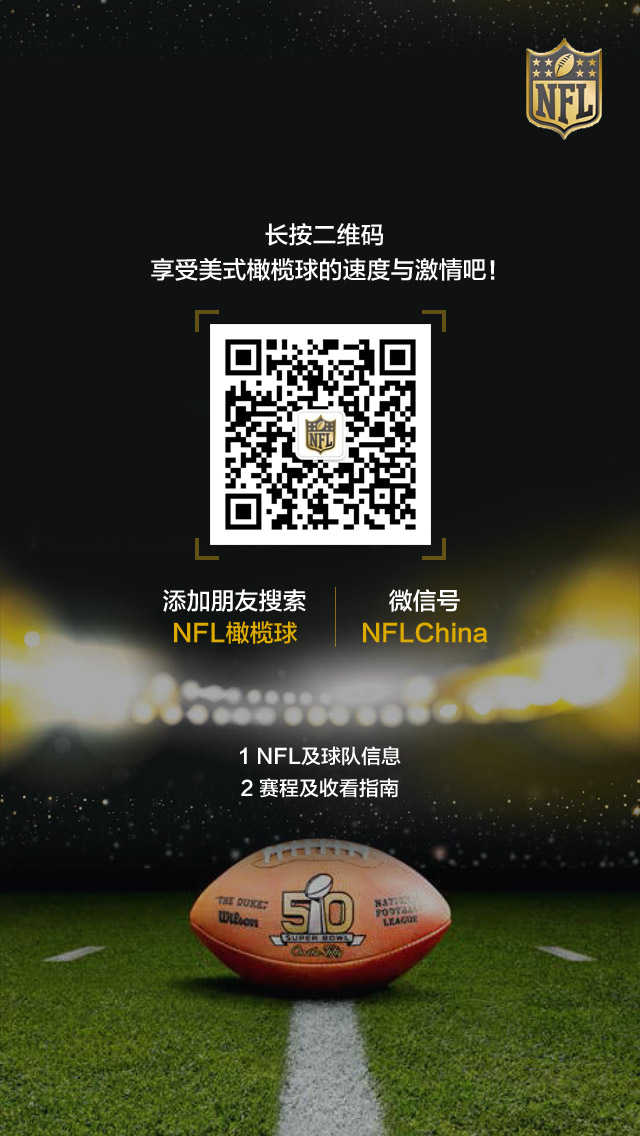
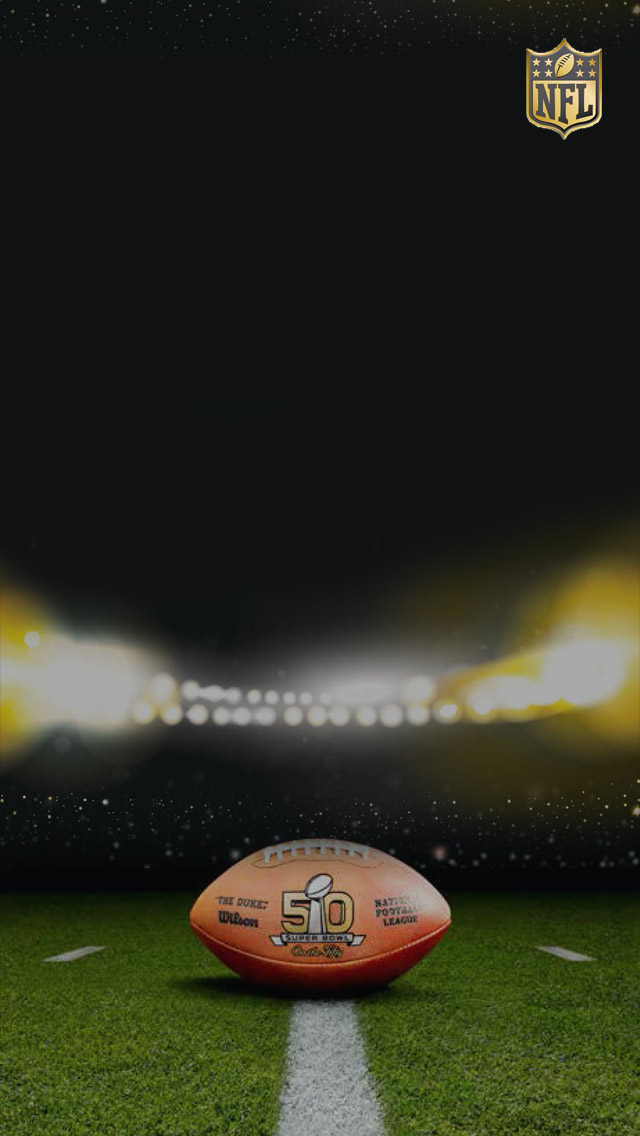
refs nfl

Changed region(s): [[0.2188, 0.1849, 0.7812, 0.5854], [0.375, 0.647, 0.625, 0.7086], [0.5625, 0.5238, 0.7812, 0.5854]]

diff --git a/NFL/nfl.html b/NFL/nfl.html
@@ -7,9 +7,19 @@
     <link rel="stylesheet" href="css/reset.css">
     <link rel="stylesheet" href="css/swiper.min.css">
     <link rel="stylesheet" href="css/main.css">
-
+    
 </head>
 <body>
+    <div style="display: none;">
+        <img src="images/bg1.jpg" alt="">
+        <img src="images/bg2.jpg" alt="">
+        <img src="images/bg3.jpg" alt="">
+        <img src="images/bg4.jpg" alt="">
+        <img src="images/loading2.png" alt="">
+        <img src="images/loading3.png" alt="">
+        <img src="images/loading4.png" alt="">
+        <img src="images/qcode.jpg" alt="">
+    </div>
     <div class="swiper-container">
         <div class="swiper-wrapper">
             <div class="swiper-slide swiper-slide1">
@@ -106,26 +116,76 @@
                     <a href="#"></a>
                     <p>邀请好友一起来玩!</p>
                 </div>
+                <div class="share-pop">
+                    <img src="images/share-tip.png" alt="">
+                </div>
             </div>
             <div class="swiper-slide swiper-slide7">
-                <img src="images/qcode.jpg" alt="">
+                <div class="share-title">
+                    <p>长按二维码</p>
+                    <p>享受美式橄榄球的速度与激情吧！</p>
+                </div>
+                <img src="images/qcode.jpg" alt="" class="q-code">
+                <img src="images/share-method.png" alt="" class="share-method">
+                <div class="weixin-fn">
+                    <p>1 NFL及球队信息</p>
+                    <p>2 赛程及收看指南</p>
+                </div>
+                
             </div>
         </div>
     </div>
     <script src="js/jquery-1.8.3.min.js"></script>
     <script src="js/swiper.jquery.min.js"></script>
     <script>
-        $(function() {
-            var mySwiper = new Swiper('.swiper-container',{
-                initialSlide : 6,
-                onlyExternal : true
-            })
+         (function($){
+            var img_arr_all = [],
+                progress = 0;
 
-            $('.swiper-slide').click(function(){
-                mySwiper.slideNext();
-            })
-        })
-        
+            eachArr($('img'),img_arr_all);
+
+            var iLen = img_arr_all.length;
+            var _num = 0;
+
+            for (var i = 0; i < iLen; i++) {
+                loadImage(img_arr_all[i]);
+            }
+
+            // each array
+            function eachArr(selector,arr){
+                selector.each(function(){
+                    arr.push($(this).attr('src'));
+                });
+            }
+            // loading image
+            function loadImage(url) {
+                var img = new Image();
+                img.src = url;
+                img.onload = function () {
+                    _num++;
+                    // progress by %
+                    progress = parseInt((_num / iLen) * 100);
+                    console.log(progress);
+                    switch(progress){
+                        case 50:
+                            $('.loading').css('background-image','url(images/loading2.png)');
+                        case 75:
+                            $('.loading').css('background-image','url(images/loading3.png)');
+                        case 100:
+                            $('.loading').css('background-image','url(images/loading4.png)');  
+                    }
+                    // $('.progress').empty().text(parseInt((_num / iLen) * 100) + '%');
+                    // if (_num >= iLen) {
+                    //     setTimeout(function() {
+                    //         $('.load-page').hide();
+                    //         // alert('success');
+                    //     },1000);
+                    // }
+                };
+            }
+        }(jQuery));
     </script>
+    <script src="js/index.js"></script>
+    
 </body>
 </html>

diff --git a/NFL/css/main.css b/NFL/css/main.css
@@ -33,39 +33,123 @@ body {
     background-image: url(../images/bg2.jpg);
 }
 .swiper-slide6{
+    position: relative;
     background-image: url(../images/bg3.jpg);
     padding-top: 9%;
 }
 .swiper-slide7{
     background-image: url(../images/bg4.jpg);
+    padding-top: 27%;
 }
 .swiper-slide1{
     padding-top: 15%;
 }
 
 .swiper-slide .logo1{
+    position: relative;
     display: block;
     width: 22%;
     margin: 0 auto 3%;
 }
+.swiper-slide1 .logo1{
+    -webkit-animation: fadeInFromTop 1s ease-out;
+    animation: fadeInFromTop 1s ease-out;
+}
+@-webkit-keyframes fadeInFromTop {
+    0% {
+        top: -50px;
+        opacity: 0;
+    }
+    100% {
+        top: 0;
+        opacity: 1;
+    }
+}
+@keyframes fadeInFromTop {
+    0% {
+        top: -50px;
+        opacity: 0;
+    }
+    100% {
+        top: 0;
+        opacity: 1;
+    }
+}
+
 .swiper-slide .slogan{
     display: block;
     width: 100%;
     margin-bottom: 4%;
+
+}
+.swiper-slide1 .slogan{
+    opacity: 0;
+    -webkit-animation: fadeInFromNone 1s ease-out 1s;
+    -webkit-animation-fill-mode:forwards; 
+    animation: fadeInFromNone 1s ease-out 1s;
+    animation-fill-mode:forwards; 
+}
+@-webkit-keyframes fadeInFromNone {
+    0% {
+        opacity: 0;
+    }
+    100% {
+        opacity: 1;
+    }
+}
+@keyframes fadeInFromNone {
+    0% {
+        opacity: 0;
+    }
+    100% {
+        opacity: 1;
+    }
 }
 .swiper-slide1 .main-img{
+    position: relative;
     display: block;
     width: 75%;
     margin: 0 auto 8%;
+    opacity: 0;
+    -webkit-animation: fadeInFromBottom 1s ease-out 2s;
+    -webkit-animation-fill-mode:forwards; 
+    animation: fadeInFromBottom 1s ease-out 2s;
+    animation-fill-mode:forwards; 
+}
+@-webkit-keyframes fadeInFromBottom {
+    0% {
+        bottom: -50px;
+        opacity: 0;
+    }
+    100% {
+        bottom: 0;
+        opacity: 1;
+    }
+}
+@keyframes fadeInFromBottom {
+    0% {
+        bottom: -50px;
+        opacity: 0;
+    }
+    100% {
+        bottom: 0;
+        opacity: 1;
+    }
 }
 .loading{
     width: 48%;
     padding-bottom: 37%;
     margin: 0 auto;
     background: url(../images/loading.png) top center no-repeat;
-    -webkit-background-size: cover;
-    background-size: cover;
+    -webkit-background-size: 100% 100%;
+    background-size: 100% 100%;
+    opacity: 0;
+    -webkit-animation: fadeInFromNone 1s ease-out 3s;
+    -webkit-animation-fill-mode:forwards; 
+    animation: fadeInFromNone 1s ease-out 3s;
+    animation-fill-mode:forwards;
 }
+
 .common-question{
     position: relative;
     width: 80%;
@@ -269,6 +353,41 @@ body {
     font-size: 16px;
     color: #fff;
 }
+.share-pop{
+    position: absolute;
+    left: 0;
+    top: 0;
+    width: 100%;
+    height: 100%;
+    background-color: rgba(0,0,0,.6);
+    z-index: 10;
+    text-align: right;
+    padding: 30px;
+    display: none;
+}
+.share-pop img{
+    display: inline-block;
+    width: 220px;
+
+}
+.swiper-slide7 .share-title,.swiper-slide7 .weixin-fn{
+    text-align: center;
+    color: #fff;
+    font-size: 14px;
+    line-height: 26px;
+    margin-bottom: 10px;
+}
+.swiper-slide7 .q-code{
+    display: block;
+    width: 125px;
+    margin: 0 auto 15px;
+}
+.swiper-slide7 .share-method{
+    display: block;
+    width: 170px;
+    margin: 0 auto 50px;
+}
+
 @media screen and (max-height: 500px) {
     .swiper-slide6{
         padding-top: 5%;

diff --git a/NFL/js/index.js b/NFL/js/index.js
@@ -1,0 +1,9 @@
+$(function() {
+    var mySwiper = new Swiper('.swiper-container',{
+        onlyExternal : true
+    })
+    
+    $('.swiper-slide').click(function(){
+        mySwiper.slideNext();
+    })
+})
